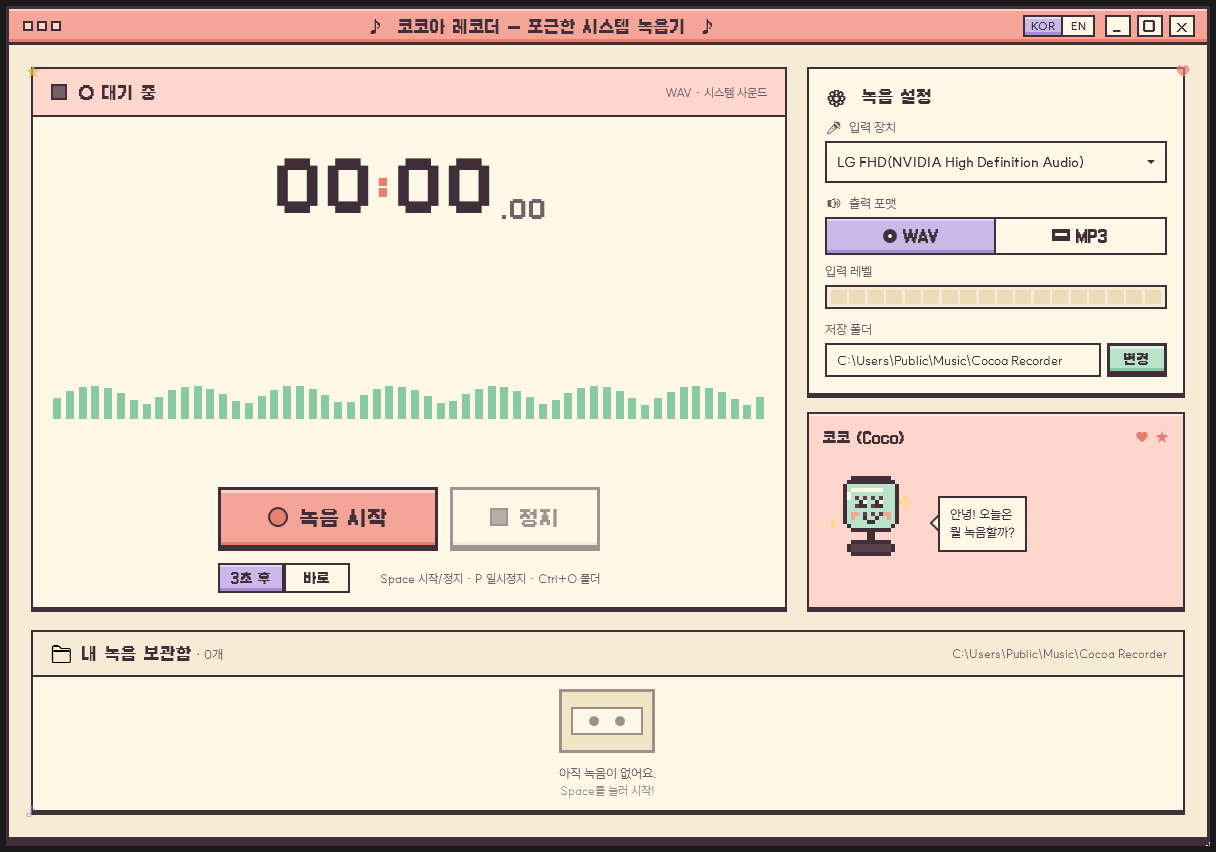
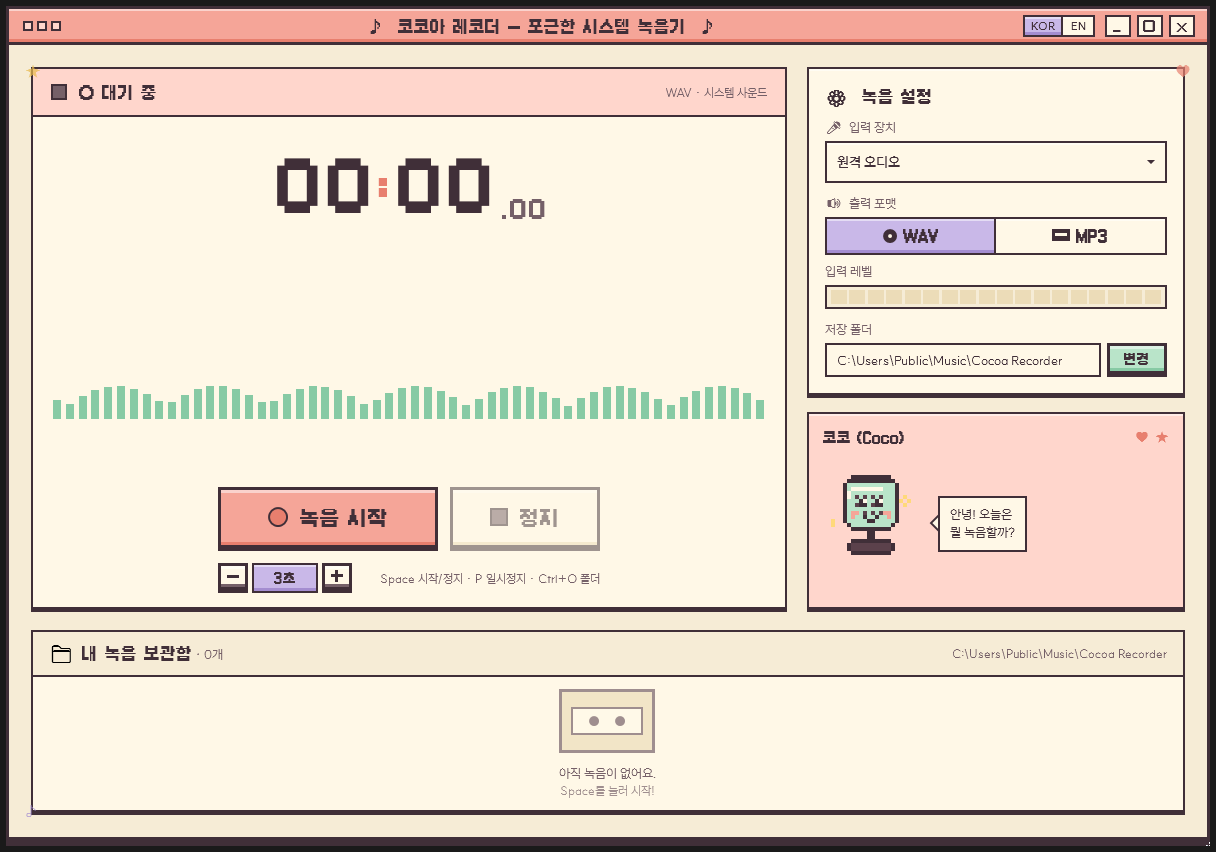
Make the countdown length adjustable, 0 to 10 seconds
The binary 3-seconds-or-nothing choice covered two cases and missed the
one issue #3's follow-up idea implies: switching to another window,
finding the video and pressing play takes far longer than three seconds.
Replace the pair of segments with a stepper — [−] 3초 [+] — reading 0
through 10, where 0 shows as "바로" / "Instant" and skips the countdown
exactly as the old off state did.

The − and + are PixelIconButton, the same part the library rows use for
play and delete, drawn as pixel bars rather than typeset glyphs like the
rest of the app's icons. At 134px the control is within a pixel or two of
the two segments it replaces, so the shortcut hint keeps its place. The
value box drops to the paper/cream treatment at 0, so "no countdown"
still reads as an off state at a glance.

Preferences move from CountdownEnabled (bool) to CountdownSeconds (int).
Files written by the previous version are migrated on load — true maps
to 3, false to 0 — and the old key is dropped on the next save.

Coco had lines for three, two and one only, so a longer count would have
left it saying "..." for every earlier tick; it now has something to say
while the count is still high.

Screenshots and the README feature line updated for both languages.

diff --git a/MainWindow.xaml b/MainWindow.xaml
@@ -288,21 +288,47 @@
                                     </Grid.ColumnDefinitions>
                                     <StackPanel Grid.Column="0"
                                                 Orientation="Horizontal"
-                                                VerticalAlignment="Center">
-                                        <RadioButton x:Name="CountdownOnToggle"
-                                                     Style="{StaticResource CountdownSegment}"
-                                                     GroupName="Countdown"
-                                                     Content="{DynamicResource L_CountdownOn}"
-                                                     ToolTip="{DynamicResource L_CountdownHint}"
-                                                     ToolTipService.ShowOnDisabled="True"
-                                                     Checked="Countdown_Checked"/>
-                                        <RadioButton x:Name="CountdownOffToggle"
-                                                     Style="{StaticResource CountdownSegment}"
-                                                     GroupName="Countdown"
-                                                     Content="{DynamicResource L_CountdownOff}"
-                                                     ToolTip="{DynamicResource L_CountdownHint}"
-                                                     ToolTipService.ShowOnDisabled="True"
-                                                     Checked="Countdown_Checked"/>
+                                                VerticalAlignment="Center"
+                                                ToolTip="{DynamicResource L_CountdownHint}"
+                                                ToolTipService.ShowOnDisabled="True">
+                                        <Button x:Name="CountdownDownButton"
+                                                Style="{StaticResource CountdownStepButton}"
+                                                Click="CountdownDown_Click">
+                                            <Border Width="12" Height="3"
+                                                    Background="{StaticResource InkDarkBrush}"
+                                                    SnapsToDevicePixels="True"/>
+                                        </Button>
+                                        <Border x:Name="CountdownValueBox"
+                                                MinWidth="66" Height="30"
+                                                BorderBrush="{StaticResource InkDarkBrush}"
+                                                BorderThickness="2"
+                                                Margin="4,0"
+                                                SnapsToDevicePixels="True">
+                                            <Grid>
+                                                <Rectangle Fill="#80FFFFFF" Height="2" VerticalAlignment="Top"/>
+                                                <Rectangle x:Name="CountdownValueStripe" Height="3" VerticalAlignment="Bottom"/>
+                                                <TextBlock x:Name="CountdownValueText"
+                                                           FontFamily="{StaticResource DisplayFont}"
+                                                           FontSize="13"
+                                                           FontWeight="Bold"
+                                                           HorizontalAlignment="Center"
+                                                           VerticalAlignment="Center"/>
+                                            </Grid>
+                                        </Border>
+                                        <Button x:Name="CountdownUpButton"
+                                                Style="{StaticResource CountdownStepButton}"
+                                                Click="CountdownUp_Click">
+                                            <Grid Width="12" Height="12">
+                                                <Border Width="12" Height="3"
+                                                        Background="{StaticResource InkDarkBrush}"
+                                                        VerticalAlignment="Center"
+                                                        SnapsToDevicePixels="True"/>
+                                                <Border Width="3" Height="12"
+                                                        Background="{StaticResource InkDarkBrush}"
+                                                        HorizontalAlignment="Center"
+                                                        SnapsToDevicePixels="True"/>
+                                            </Grid>
+                                        </Button>
                                     </StackPanel>
                                     <TextBlock Grid.Column="2"
                                                Text="{DynamicResource L_ShortcutHint}"

diff --git a/App.xaml b/App.xaml
@@ -289,11 +289,11 @@
                 <Setter Property="FontWeight" Value="SemiBold"/>
             </Style>
 
-            <!-- 카운트다운 선택 — WAV|MP3, KOR|EN과 같은 세그먼티드 컨트롤 어휘를 쓴다. -->
-            <Style x:Key="CountdownSegment" TargetType="RadioButton" BasedOn="{StaticResource FormatToggle}">
+            <!-- 카운트다운 스테퍼의 − / + — 보관함 재생·삭제와 같은 픽셀 아이콘 버튼을 쓴다. -->
+            <Style x:Key="CountdownStepButton" TargetType="Button" BasedOn="{StaticResource PixelIconButton}">
+                <Setter Property="Width" Value="30"/>
                 <Setter Property="Height" Value="30"/>
-                <Setter Property="FontSize" Value="13"/>
-                <Setter Property="MinWidth" Value="66"/>
+                <Setter Property="FocusVisualStyle" Value="{StaticResource PixelFocusVisual}"/>
             </Style>
 
             <!-- ============================================================

diff --git a/MainWindow.xaml.cs b/MainWindow.xaml.cs
@@ -4,6 +4,7 @@ using System.Diagnostics;
 using System.IO;
 using System.Runtime.CompilerServices;
 using System.Text.Json;
+using System.Text.Json.Serialization;
 using System.Windows;
 using System.Windows.Controls;
 using System.Windows.Input;
@@ -24,7 +25,6 @@ public partial class MainWindow : Window
 
     private readonly AudioRecorder _recorder = new();
     private readonly AppPreferences _preferences = AppPreferences.Load();
-    private bool _preferencesReady;
     private string _saveFolder = string.Empty;
 
     private readonly DispatcherTimer _uiTimer;
@@ -52,9 +52,7 @@ public partial class MainWindow : Window
         UpdateLangToggle();
         L10n.LanguageChanged += OnLanguageChanged;
 
-        CountdownOnToggle.IsChecked = _preferences.CountdownEnabled;
-        CountdownOffToggle.IsChecked = !_preferences.CountdownEnabled;
-        _preferencesReady = true;
+        UpdateCountdownVisual();
 
         _saveFolder = ResolveInitialSaveFolder();
         Directory.CreateDirectory(_saveFolder);
@@ -259,6 +257,7 @@ public partial class MainWindow : Window
             MascotSpeech.Text = Pick(L10n.IdleMessages);
         }
 
+        UpdateCountdownVisual(); // "3초" / "3 sec" 는 코드가 조립하므로 직접 다시 그린다
         UpdateFormatInfo();
         RefreshRecordings(); // 카드 Meta의 날짜 표기 언어 갱신
     }
@@ -303,12 +302,32 @@ public partial class MainWindow : Window
         UpdateFormatInfo();
     }
 
-    private void Countdown_Checked(object sender, RoutedEventArgs e)
+    private void CountdownDown_Click(object sender, RoutedEventArgs e) => StepCountdown(-1);
+    private void CountdownUp_Click(object sender, RoutedEventArgs e) => StepCountdown(+1);
+
+    private void StepCountdown(int delta)
     {
-        // Fires once while XAML loads, before the stored value is applied — ignore that one.
-        if (!_preferencesReady) return;
-        _preferences.CountdownEnabled = CountdownOnToggle.IsChecked == true;
+        var next = Math.Clamp(_preferences.CountdownSeconds + delta, 0, AppPreferences.MaxCountdownSeconds);
+        if (next == _preferences.CountdownSeconds) return;
+        _preferences.CountdownSeconds = next;
         _preferences.Save();
+        UpdateCountdownVisual();
+    }
+
+    private void UpdateCountdownVisual()
+    {
+        int seconds = _preferences.CountdownSeconds;
+        CountdownValueText.Text = seconds == 0
+            ? L10n.T("CountdownZero")
+            : string.Format(L10n.T("CountdownUnit"), seconds);
+
+        // 0초는 카운트다운이 없는 상태다. 선택되지 않은 세그먼트와 같은 무게로 낮춰 둔다.
+        bool off = seconds == 0;
+        CountdownValueBox.Background = (Brush)FindResource(off ? "PaperBrush" : "LilacBrush");
+        CountdownValueStripe.Fill = (Brush)FindResource(off ? "CreamDeepBrush" : "LilacDeepBrush");
+        CountdownValueText.Foreground = (Brush)FindResource(off ? "InkSoftBrush" : "InkDarkBrush");
+
+        SetCountdownChoiceEnabled(!_recorder.IsRecording && _countdownTimer == null);
     }
 
     private void UpdateFormatInfo()
@@ -393,8 +412,8 @@ public partial class MainWindow : Window
             MascotSpeech.Text = L10n.T("MsgPickDevice");
             return;
         }
-        if (CountdownOnToggle.IsChecked == true)
-            BeginCountdown(3);
+        if (_preferences.CountdownSeconds > 0)
+            BeginCountdown(_preferences.CountdownSeconds);
         else
             ActuallyStartRecording();
     }
@@ -446,7 +465,7 @@ public partial class MainWindow : Window
             3 => L10n.T("Count3"),
             2 => L10n.T("Count2"),
             1 => L10n.T("Count1"),
-            _ => "..."
+            _ => L10n.T("CountWait")
         };
     }
 
@@ -556,8 +575,8 @@ public partial class MainWindow : Window
 
     private void SetCountdownChoiceEnabled(bool enabled)
     {
-        CountdownOnToggle.IsEnabled = enabled;
-        CountdownOffToggle.IsEnabled = enabled;
+        CountdownDownButton.IsEnabled = enabled && _preferences.CountdownSeconds > 0;
+        CountdownUpButton.IsEnabled = enabled && _preferences.CountdownSeconds < AppPreferences.MaxCountdownSeconds;
     }
 
     private void UpdateStatusDot()
@@ -1040,7 +1059,15 @@ public partial class MainWindow : Window
             "CocoaRecorder",
             "settings.json");
 
-        public bool CountdownEnabled { get; set; } = true;
+        public const int DefaultCountdownSeconds = 3;
+        public const int MaxCountdownSeconds = 10;
+
+        public int CountdownSeconds { get; set; } = DefaultCountdownSeconds;
+
+        /// <summary>카운트다운 길이를 고를 수 없던 버전이 쓰던 값. 한 번 옮겨 담고 나면 더 쓰지 않는다.</summary>
+        [JsonIgnore(Condition = JsonIgnoreCondition.WhenWritingNull)]
+        public bool? CountdownEnabled { get; set; }
+
         public string? SaveFolder { get; set; }
 
         public AppPreferences()
@@ -1052,8 +1079,15 @@ public partial class MainWindow : Window
             try
             {
                 if (!File.Exists(SettingsPath)) return new AppPreferences();
-                return JsonSerializer.Deserialize<AppPreferences>(File.ReadAllText(SettingsPath))
-                       ?? new AppPreferences();
+                var loaded = JsonSerializer.Deserialize<AppPreferences>(File.ReadAllText(SettingsPath))
+                             ?? new AppPreferences();
+                if (loaded.CountdownEnabled is bool wasEnabled)
+                {
+                    loaded.CountdownSeconds = wasEnabled ? DefaultCountdownSeconds : 0;
+                    loaded.CountdownEnabled = null;
+                }
+                loaded.CountdownSeconds = Math.Clamp(loaded.CountdownSeconds, 0, MaxCountdownSeconds);
+                return loaded;
             }
             catch
             {

diff --git a/Localization.cs b/Localization.cs
@@ -67,10 +67,10 @@ public static class L10n
         ["PauseBtn"]        = ("일시정지", "Pause"),
         ["ResumeBtn"]       = ("재개", "Resume"),
         ["StopBtn"]         = ("정지", "Stop"),
-        ["CountdownOn"]     = ("3초 후", "3 sec"),
-        ["CountdownOff"]    = ("바로", "Instant"),
-        ["CountdownHint"]   = ("'바로'를 고르면 버튼을 누르는 즉시 녹음해요",
-                               "Pick Instant to start recording the moment you press Record"),
+        ["CountdownUnit"]   = ("{0}초", "{0} sec"),
+        ["CountdownZero"]   = ("바로", "Instant"),
+        ["CountdownHint"]   = ("녹음이 시작되기까지 기다릴 시간이에요. 0으로 두면 누르는 즉시 녹음해요",
+                               "How long to wait before recording starts — at 0 it records the moment you press Record"),
         ["ShortcutHint"]    = ("Space 시작/정지 · P 일시정지 · Ctrl+O 폴더",
                                "Space start/stop · P pause · Ctrl+O folder"),
 
@@ -99,6 +99,7 @@ public static class L10n
         ["Count3"]          = ("셋!", "Three!"),
         ["Count2"]          = ("둘!", "Two!"),
         ["Count1"]          = ("하나!", "One!"),
+        ["CountWait"]       = ("준비하고 있어~", "Getting ready~"),
 
         // 마스코트 안내/오류 대사
         ["MsgClosing"]      = ("마무리 중...\n잠깐만!", "Wrapping up...\njust a sec!"),

diff --git a/README.ko.md b/README.ko.md
@@ -49,7 +49,7 @@
 **🎙 녹음**
 
 - **시스템 사운드 캡처** — 스피커로 출력되는 소리를 손실 없이 그대로 녹음합니다. (WASAPI loopback)
-- **선택형 3초 카운트다운** — 정확한 타이밍이 필요할 때는 켜고, 빠르게 소리를 모을 때는 꺼서 즉시 녹음할 수 있습니다.
+- **카운트다운 조절** — 녹음이 시작되기까지 기다릴 시간을 0~10초 사이에서 고를 수 있습니다. 0으로 두면 누르는 즉시 녹음하고, 길게 두면 다른 창으로 넘어가 재생을 누를 여유가 생깁니다.
 - **일시정지 / 재개** — 원치 않는 구간은 잠시 멈췄다가 이어서 녹음할 수 있습니다.
 - **WAV / MP3 선택** — 원본 그대로 보관하고 싶다면 WAV, 용량을 아끼고 싶다면 MP3를 선택할 수 있습니다. (LO / MED / HI 품질)
 

diff --git a/README.md b/README.md
@@ -48,7 +48,7 @@ Full changelogs are on the [Releases page](https://github.com/darkdarkcocoa/coco
 **🎙 Recording**
 
 - **System audio capture** — records whatever comes out of your speakers, losslessly (WASAPI loopback)
-- **Optional 3-second countdown** — keep it for precise timing or switch it off for instant recording
+- **Adjustable countdown** — set 0–10 seconds of lead-in before recording starts. Leave it at 0 to record the moment you press the button, or stretch it to give yourself time to switch windows
 - **Pause / resume** — skip ads or unwanted sections and pick up where you left off
 - **WAV / MP3 toggle** — keep the original as WAV, or save space with MP3 (LO / MED / HI quality)
 
